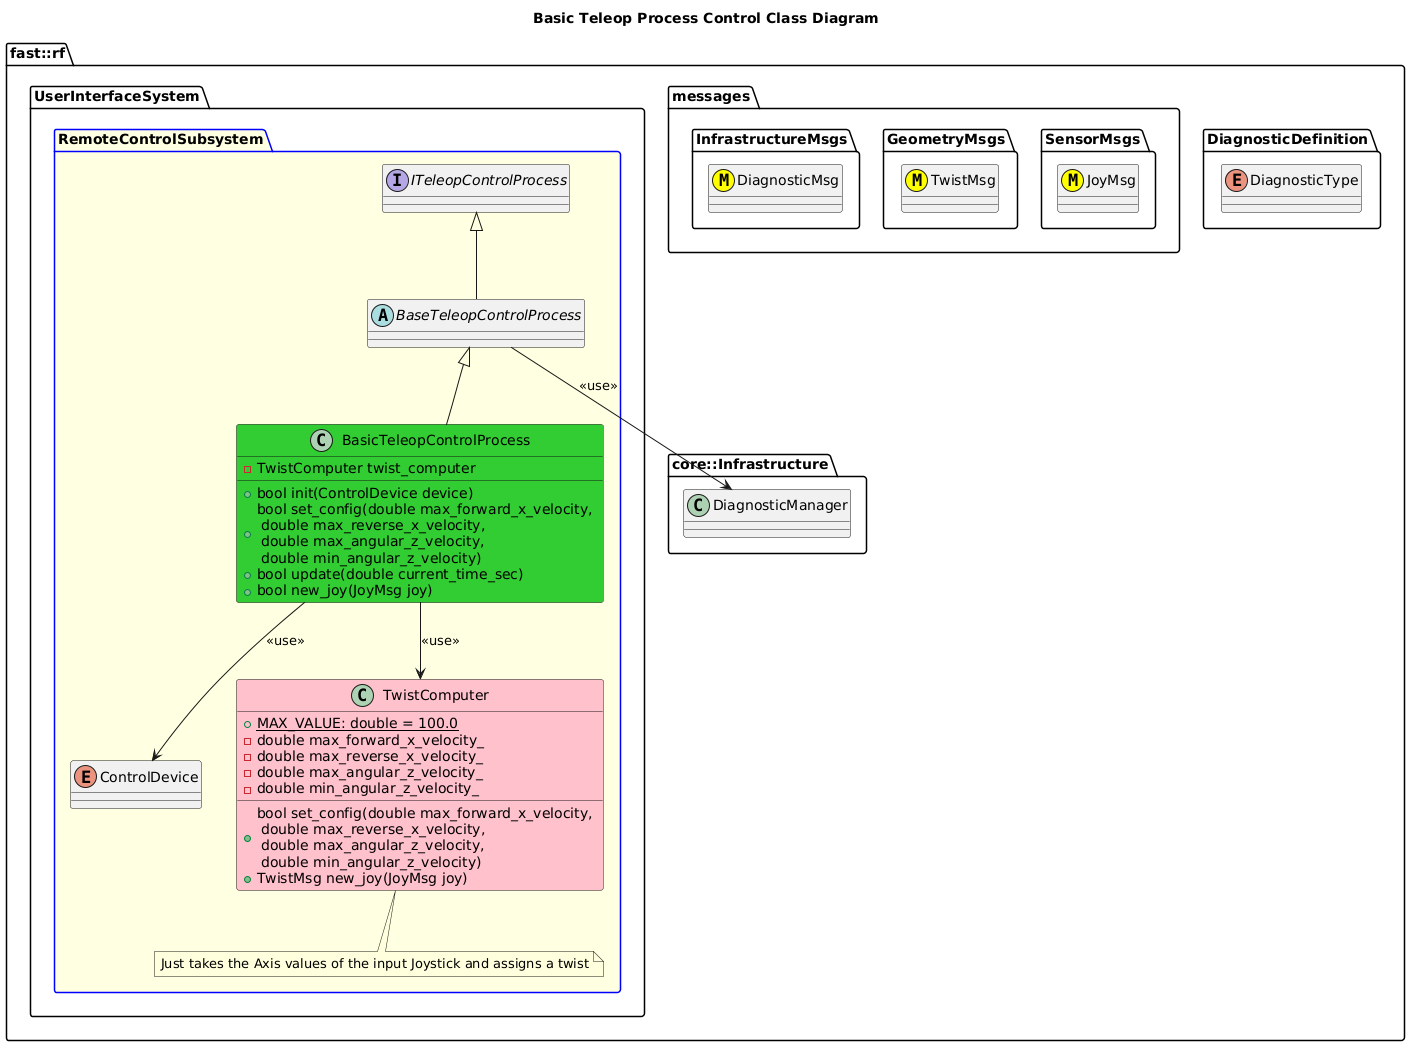
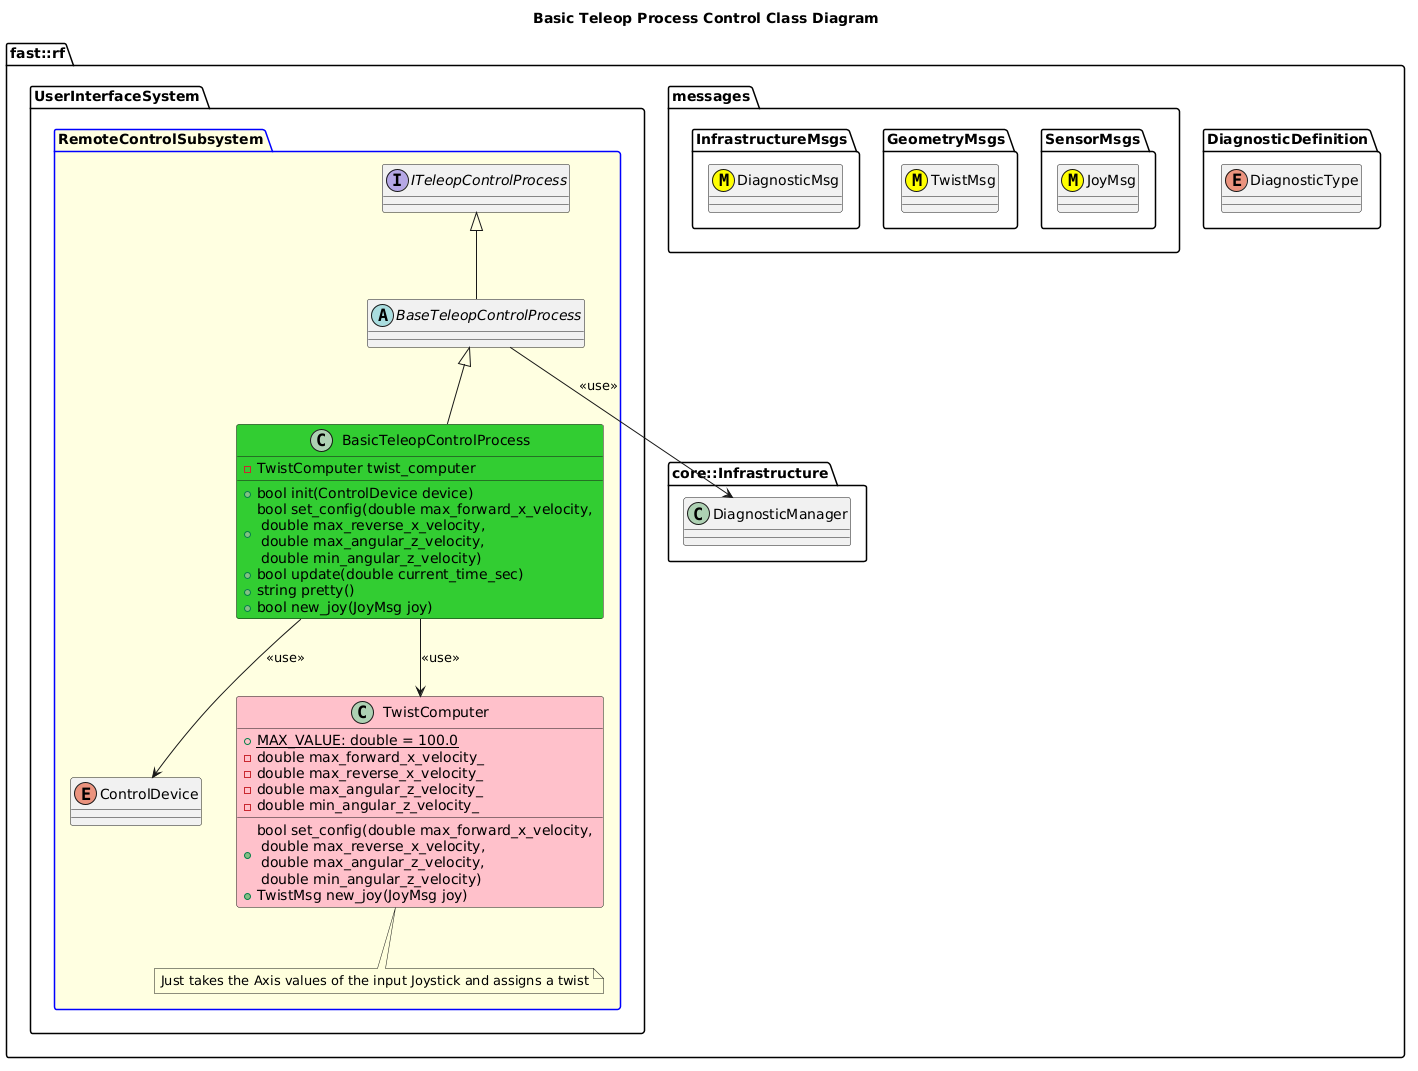
Updating TeleopControl Process.

diff --git a/Systems/UserInterface/Subsystems/RemoteControl/Processes/TeleopControl/src/test/test_process_TeleopControl.cpp b/Systems/UserInterface/Subsystems/RemoteControl/Processes/TeleopControl/src/test/test_process_TeleopControl.cpp
@@ -5,6 +5,7 @@
 
 #include <BaseTeleopControlProcess.hpp>
 #include <ITeleopControlProcess.hpp>
+#include <Infrastructure/Logger.hpp>
 
 using namespace fast::rf::UserInterfaceSystem::RemoteControlSubsystem;
 class TestTeleopControlProcessInterface : public ITeleopControlProcess {
@@ -15,6 +16,10 @@ class TestTeleopControlProcessInterface : public ITeleopControlProcess {
         std::vector<fast::rf::messages::InfrastructureMsgs::DiagnosticMsg> empty;
 
         return empty;
+    }
+    fast::rf::messages::InfrastructureMsgs::ReadyToArmStatusMsg get_ready_to_arm() {
+        fast::rf::messages::InfrastructureMsgs::ReadyToArmStatusMsg ready_to_arm;
+        return ready_to_arm;
     }
     bool new_joy([[maybe_unused]] fast::rf::messages::SensorMsgs::JoyMsg joy) { return false; }
     bool set_operation_mode([[maybe_unused]] OperationMode mode) { return false; }
@@ -47,8 +52,25 @@ class TestBaseTeleopControlProcess : public BaseTeleopControlProcess {
         bool status = diagnosticManager.initialize_diagnostics(diagnostic_types);
         return status;
     }
-    bool update([[maybe_unused]] double current_time_sec) override { return base_update(current_time_sec); }
+    bool update([[maybe_unused]] double current_time_sec) override {
+        return BaseTeleopControlProcess::update(current_time_sec);
+    }
+    std::string pretty() {
+        std::string str = "---Test-Base---\n";
+        str += BaseTeleopControlProcess::pretty();
+        return str;
+    }
     bool new_joy([[maybe_unused]] fast::rf::messages::SensorMsgs::JoyMsg joy) { return false; }
+    bool inject_error() {
+        return diagnosticManager.update_diagnostic(
+            fast::rf::DiagnosticDefinition::DiagnosticType::SOFTWARE, fast::rf::Level::ERROR,
+            fast::rf::DiagnosticDefinition::DiagnosticMessage::DIAGNOSTIC_FAILED, "Testing Error Injection");
+    }
+    bool clear_error() {
+        return diagnosticManager.update_diagnostic(
+            fast::rf::DiagnosticDefinition::DiagnosticType::SOFTWARE, fast::rf::Level::NOERROR,
+            fast::rf::DiagnosticDefinition::DiagnosticMessage::NOERROR, "Clearing Error Injection");
+    }
 };
 TEST(BaseTeleopControlProcess, BasicAssertions) {
     TestBaseTeleopControlProcess SUT;
@@ -70,4 +92,10 @@ TEST(BaseTeleopControlProcess, BasicAssertions) {
     ASSERT_TRUE(SUT.update(0.0));
     printf("%s\n", SUT.pretty().c_str());
     ASSERT_FALSE(SUT.new_joy(fast::rf::messages::SensorMsgs::JoyMsg{}));
+    ASSERT_TRUE(SUT.inject_error());
+    ASSERT_TRUE(SUT.update(1.0));
+    ASSERT_FALSE(SUT.get_ready_to_arm().ready_to_arm);
+    ASSERT_TRUE(SUT.clear_error());
+    ASSERT_TRUE(SUT.update(1.0));
+    ASSERT_TRUE(SUT.get_ready_to_arm().ready_to_arm);
 }

diff --git a/Systems/UserInterface/Subsystems/RemoteControl/Processes/TeleopControl/include/BaseTeleopControlProcess.hpp b/Systems/UserInterface/Subsystems/RemoteControl/Processes/TeleopControl/include/BaseTeleopControlProcess.hpp
@@ -30,7 +30,10 @@ namespace fast::rf::UserInterfaceSystem::RemoteControlSubsystem {
         BaseTeleopControlProcess()
             : diagnosticManager(fast::rf::UserInterfaceSystem::SYSTEM_ID,
                                 fast::rf::UserInterfaceSystem::RemoteControlSubsystem::SUBSYSTEM_ID,
-                                fast::rf::UserInterfaceSystem::RemoteControlSubsystem::PROCESS_TELEOPCONTROL_ID) {}
+                                fast::rf::UserInterfaceSystem::RemoteControlSubsystem::PROCESS_TELEOPCONTROL_ID),
+              ready_to_arm(fast::rf::UserInterfaceSystem::SYSTEM_ID,
+                           fast::rf::UserInterfaceSystem::RemoteControlSubsystem::SUBSYSTEM_ID,
+                           fast::rf::UserInterfaceSystem::RemoteControlSubsystem::PROCESS_TELEOPCONTROL_ID) {}
         /**
          * @brief Update the base object
          *
@@ -38,7 +41,7 @@ namespace fast::rf::UserInterfaceSystem::RemoteControlSubsystem {
          * @return true If ok
          * @return false If not ok
          */
-        bool base_update(double current_time_sec);  //!< Base function to update
+        virtual bool update(double current_time_sec);  //!< Base function to update
 
         /**
          * @brief Get the diagnostics object
@@ -49,6 +52,12 @@ namespace fast::rf::UserInterfaceSystem::RemoteControlSubsystem {
             return diagnosticManager.get_diagnostics();
         }
 
+        /**
+         * @brief Get the ready to arm object
+         *
+         * @return fast::rf::messages::InfrastructureMsgs::ReadyToArmStatusMsg
+         */
+        fast::rf::messages::InfrastructureMsgs::ReadyToArmStatusMsg get_ready_to_arm() override { return ready_to_arm; }
         /**
          * @brief Get the twist output object
          *
@@ -61,7 +70,7 @@ namespace fast::rf::UserInterfaceSystem::RemoteControlSubsystem {
          *
          * @return std::string
          */
-        std::string pretty() override;
+        virtual std::string pretty();
 
         /**
          * @brief Set the operation mode object
@@ -82,6 +91,7 @@ namespace fast::rf::UserInterfaceSystem::RemoteControlSubsystem {
         double current_time_sec_{-1.0};  //!< Current system time
         fast::rf::core::infrastructure::DiagnosticManager
             diagnosticManager;  //!< Entity responsible for managing diagnostics.
+        fast::rf::messages::InfrastructureMsgs::ReadyToArmStatusMsg ready_to_arm;  //!< Ready to Arm object
         fast::rf::messages::GeometryMsgs::TwistMsg
             desired_twist;                                 //!< Data member representing the most current desired twist
         OperationMode operation_mode{OperationMode::RUN};  //!< Operation Mode of the process

diff --git a/Systems/UserInterface/Subsystems/RemoteControl/Processes/TeleopControl/src/BaseTeleopControlProcess.cpp b/Systems/UserInterface/Subsystems/RemoteControl/Processes/TeleopControl/src/BaseTeleopControlProcess.cpp
@@ -1,12 +1,17 @@
 #include <BaseTeleopControlProcess.hpp>
 namespace fast::rf::UserInterfaceSystem::RemoteControlSubsystem {
-    bool BaseTeleopControlProcess::base_update(double current_time_sec) {
+    bool BaseTeleopControlProcess::update(double current_time_sec) {
         current_time_sec_ = current_time_sec;
+        if (diagnosticManager.get_diagnostics(fast::rf::Level::ERROR).size() == 0) {
+            ready_to_arm.ready_to_arm = true;
+        } else {
+            ready_to_arm.ready_to_arm = false;
+        }
 
         return true;
     }
     std::string BaseTeleopControlProcess::pretty() {
-        std::string str = "\n---Teleop Control---\n";
+        std::string str = "";
         if (operation_mode == OperationMode::RUN) {
             str += "\nOp Mode: RUN\n";
         } else if (operation_mode == OperationMode::JOY_TEST) {
@@ -16,6 +21,7 @@ namespace fast::rf::UserInterfaceSystem::RemoteControlSubsystem {
             str += "\nOp Mode: UNKNOWN\n";
         }
         str += "\tT: " + std::to_string(current_time_sec_) + "\n";
+        str += "\tReady To Arm: " + std::to_string(ready_to_arm.ready_to_arm) + "\n";
         str += "\tDesired Twist: " + desired_twist.pretty() + "\n";
         str += diagnosticManager.pretty();
 

diff --git a/Systems/UserInterface/Subsystems/RemoteControl/Processes/TeleopControl/src/BasicTeleopControlProcess/BasicTeleopControlProcess.cpp b/Systems/UserInterface/Subsystems/RemoteControl/Processes/TeleopControl/src/BasicTeleopControlProcess/BasicTeleopControlProcess.cpp
@@ -20,7 +20,7 @@ namespace fast::rf::UserInterfaceSystem::RemoteControlSubsystem {
         return status;
     }
     bool BasicTeleopControlProcess::update(double current_time_sec) {
-        bool status = BaseTeleopControlProcess::base_update(current_time_sec);
+        bool status = BaseTeleopControlProcess::update(current_time_sec);
         if (status == false) {
             return false;
         }
@@ -31,6 +31,11 @@ namespace fast::rf::UserInterfaceSystem::RemoteControlSubsystem {
             return false;
         }
         return true;
+    }
+    std::string BasicTeleopControlProcess::pretty() {
+        std::string str = "---Basic Telelop Control Process---";
+        str += BaseTeleopControlProcess::pretty();
+        return str;
     }
     bool BasicTeleopControlProcess::new_joy(fast::rf::messages::SensorMsgs::JoyMsg joy) {
         bool status = diagnosticManager.update_diagnostic(

diff --git a/Systems/UserInterface/Subsystems/RemoteControl/Processes/TeleopControl/include/ITeleopControlProcess.hpp b/Systems/UserInterface/Subsystems/RemoteControl/Processes/TeleopControl/include/ITeleopControlProcess.hpp
@@ -11,6 +11,7 @@
 #pragma once
 #include <DiagnosticMsg.hpp>
 #include <JoyMsg.hpp>
+#include <ReadyToArmStatusMsg.hpp>
 #include <RobotFrameworkDefinitions.hpp>
 #include <TwistMsg.hpp>
 #include <vector>
@@ -76,6 +77,13 @@ namespace fast::rf::UserInterfaceSystem::RemoteControlSubsystem {
          * @return fast::rf::messages::InfrastructureMsgs::DiagnosticMsg
          */
         virtual std::vector<fast::rf::messages::InfrastructureMsgs::DiagnosticMsg> get_diagnostics() = 0;
+
+        /**
+         * @brief Get the ready to arm object
+         *
+         * @return fast::rf::messages::InfrastructureMsgs::ReadyToArmStatusMsg
+         */
+        virtual fast::rf::messages::InfrastructureMsgs::ReadyToArmStatusMsg get_ready_to_arm() = 0;
 
         /**
          * @brief Process a Joystick Message

diff --git a/Systems/UserInterface/Subsystems/RemoteControl/Processes/TeleopControl/include/BasicTeleopControlProcess/BasicTeleopControlProcess.hpp b/Systems/UserInterface/Subsystems/RemoteControl/Processes/TeleopControl/include/BasicTeleopControlProcess/BasicTeleopControlProcess.hpp
@@ -66,6 +66,13 @@ namespace fast::rf::UserInterfaceSystem::RemoteControlSubsystem {
          */
         bool new_joy(fast::rf::messages::SensorMsgs::JoyMsg joy);
 
+        /**
+         * @brief Human readable output of object
+         *
+         * @return std::string
+         */
+        std::string pretty() override;
+
        private:
         TwistComputer twist_computer;
     };

diff --git a/Systems/UserInterface/Subsystems/RemoteControl/Processes/TeleopControl/src/BasicTeleopControlProcess/test/test_BasicTeleopControlProcess.cpp b/Systems/UserInterface/Subsystems/RemoteControl/Processes/TeleopControl/src/BasicTeleopControlProcess/test/test_BasicTeleopControlProcess.cpp
@@ -4,6 +4,7 @@
 #include <stdio.h>
 
 #include <BasicTeleopControlProcess/BasicTeleopControlProcess.hpp>
+#include <Infrastructure/Logger.hpp>
 #include <cmath>
 
 using namespace fast::rf::UserInterfaceSystem::RemoteControlSubsystem;
